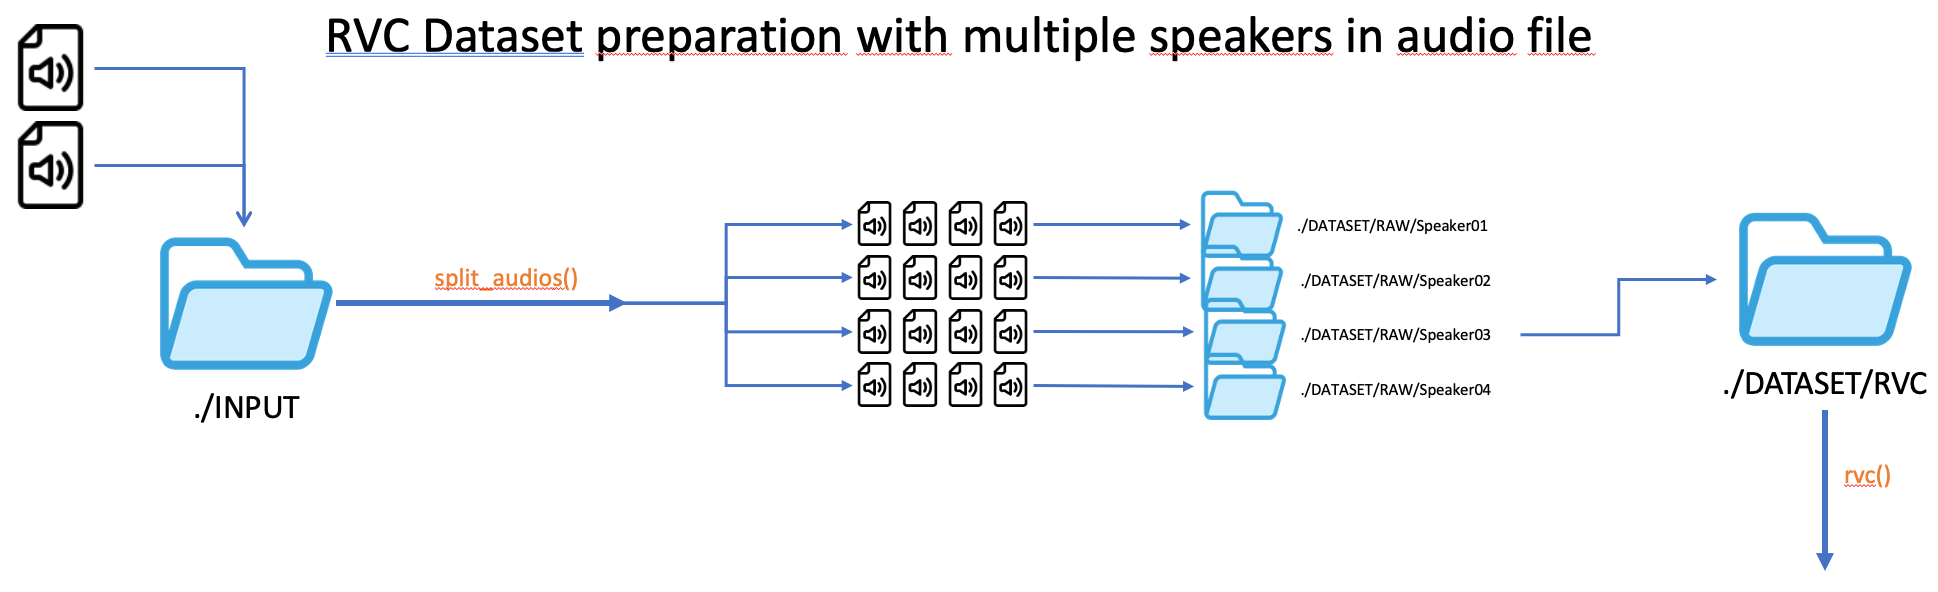
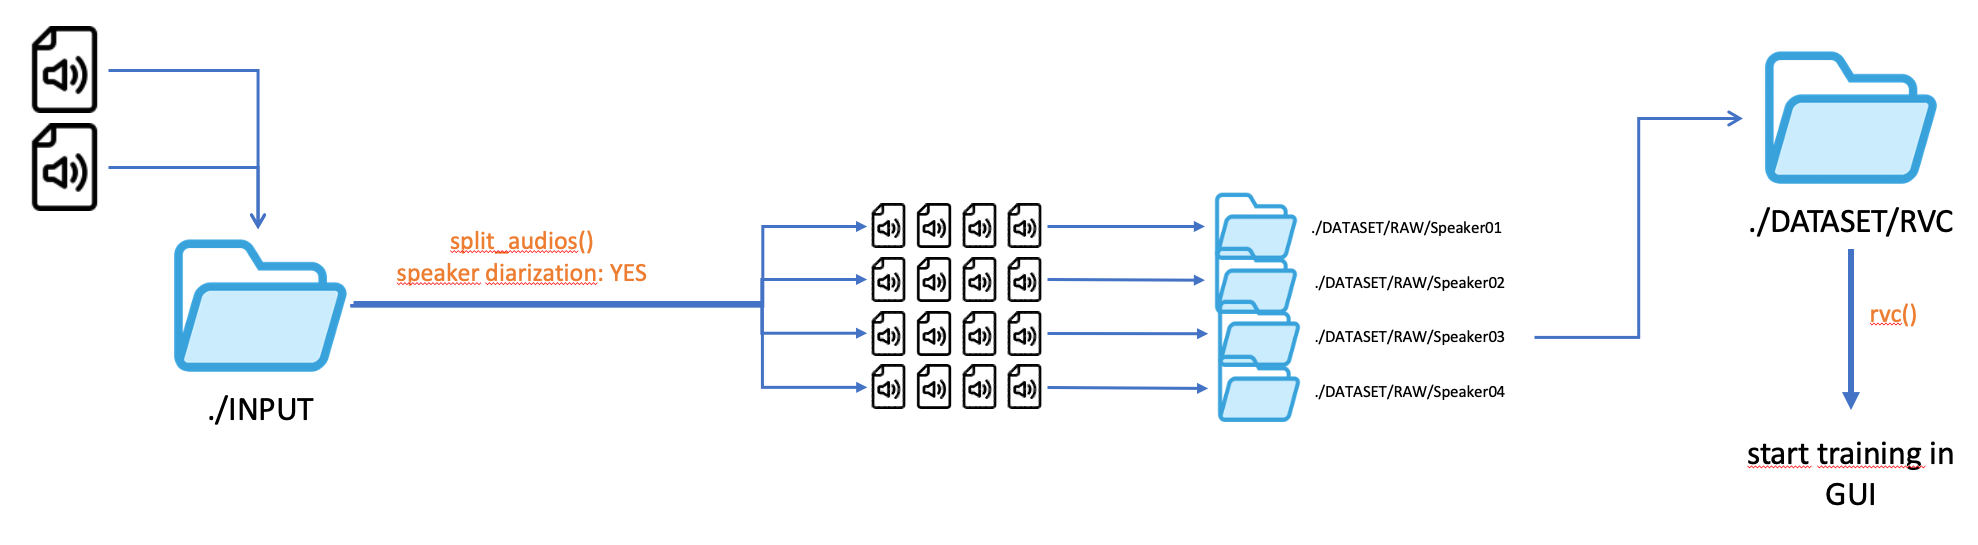
Voice workflows mostly done

Changed region(s): [[0.0, 0.0312, 0.9907, 0.967], [0.1548, 0.0312, 0.8359, 0.1248]]

diff --git a/main.tex b/main.tex
@@ -488,7 +488,7 @@ Besides \gls{tts} another recently published approach should be tested: \gls{v2v
 For accomplishing \gls{v2v} conversion the \gls{rvc} project was used \cite{RVCProjectRetrievalbasedVoiceConversionWebUI2023}. 
 \begin{figure}[h]
   \centering
-  \includegraphics[width=0.8\textwidth]{./graphics/images/RVC-UI.png}
+  \includegraphics[width=1\textwidth]{./graphics/images/RVC-UI.png}
   \caption{RVC Gradio User Interface}
   \label{fig:rvc-gradio}
 \end{figure}
@@ -736,18 +736,25 @@ But getting to the formatted Dataset turned out to be quite time consuming with 
 In the following we want to give a detailed example how we worked on our TTS Dataset. The final workflow is outlined in figure \ref{fig:dvt-tts-wf}.
 \begin{figure}[h]
   \centering
-  \includegraphics[width=1\textwidth]{./graphics/images/tts/dvt tts full workflow.png}
-  \caption{data preprocessing workflow for tts}
+  \includegraphics[width=1\textwidth]{./graphics/images/tts/tts prpro.png}
+  \caption{Data preprocessing workflow for TTS training: using \gls{prpro} and Audacity for workaround}
   \label{fig:dvt-tts-wf}
 \end{figure}
 A good voice clone starts with a smart target selection. Therefore we had to determine a suitable environment for our test cases. As we have hinted earlier and will decribe further is section \ref{study}, we chose a controled news show as the environment. TTS voices in general perform best in consistent voices where no special (emotional) intonation is required. A newscast ist perfect in this regard because of the neutral narration on the content. 
 According to this requirement we aimed for four hours of speech extracted from \gls{br} news shows "BR24". We ended up with 60 shows which acounts to a total runtime of 30 hours. From each we extraced approximately 5 minutes of the anchorman's voice.\\
 In the end our dataset contained 2002 individual clips with transcription. Getting there from 60 hours of news broadcast was quite an undertaking that could never be feasible without automation, which is where our partially automated preprocessing workflow comes in. \\
 We used several tools to aid the dataset creation process, based of various open source projects \cite{micaAudioSplitterUsing2023}, \cite{harperEndtoEndToolkitVoice2023}: \textit{Pyannote speaker diarization} helps to distinguish multiple speakers within one audio track. \textit{OpenAI Whisper} provides audio to text transcription. \textit{NVIDIA NeMo} is used for the normalisation of the transcribed texts. To give an example numbers like "42" would get normalized to the corresponding word "forty-two". This is necessary for the training process to avoid ambiguity as all input texts are being normalized before handing them over to the \gls{tts} engine. \\
-First we tried a fully automated way for the dataset creation: In this case we input one or multiple audiofiles and start the process. Based on the tools we've just mentioned, the audio gets transcribed and marked with a speaker ID.
+First we tried a fully automated way for the dataset creation which is depicted in figure \ref{fig:dvt-tts-original}.
+\begin{figure}[h]
+  \centering
+  \includegraphics[width=1\textwidth]{./graphics/images/tts/tts dvt only.png}
+  \caption{fully automated data preprocessing workflow for TTS in \gls{dvt} (not practicable)}
+  \label{fig:dvt-tts-original}
+\end{figure}
+In this case we input one or multiple audiofiles and start the process. Based on the tools we've just mentioned, the audio gets transcribed and marked with a speaker ID.
 It is then cut up into pieces of maximum length of 10 seconds, based on the transcription timecodes and placed in a dedicated directory based on the speaker ID. The folder with the most files, which is the folder of the anchorman's voice is moved to the TTS Dataset directory and again transcribed and receives the corresponding metadata.csv file with the necessary transcription for tts training (see figure \ref{fig:metadata.csv}). \\
 This process works quite well besides rarely adding false speakers to the anchorman's directory. But there is one downside of this method which, unfortunately, makes it unusable. The transcription timecodes, provided by Whisper, which are used to cut the audios into pieces are not accurate enough and often cut parts of a spoken word away. That results in the corresponding TTS voice sounding chopped up as well. This issue could be fixed by using a cutting mechanism which relies on silence in the audio as a cutting signal instead of the transcription timecodes. Although an implementation could have been derived from one of the referenced github projects, we opted against it, because we would then lose the speaker diarization funcionality, which we needed, because our news segments contained so many different speakers. \\
-Instead we opted for more time consuming manual workflow in conjunction with the previously mentioned tools: Instead of cutting the the audios in \gls{dvt}, we added a subtitle export functionality for each speaker as a csv file. We then imported the subtitle files of the anchorman into the Video editing software \textit{\gls{prpro}}. Unfortunately this is not natively supported by \gls{prpro} which is why we had to rely on an extension called \textit{Markerbox} \cite{montgomeryMARKERBOXFreeMarker}. This turned out to be the quickest alternative next to reverse engineering the \gls{prpro} XML format or purchasing software. In the end we ended up with marking in the timeline (see figure \ref{fig:premier-markers}). 
+Instead we opted for more time consuming manual workflow (figure \ref{fig:dvt-tts-wf}) in conjunction with the previously mentioned tools: Instead of cutting the the audios in \gls{dvt}, we added a subtitle export functionality (\verb|extractSpeakerMarker()|)for each speaker as a csv file. We then imported the subtitle files of the anchorman into the Video editing software \textit{\gls{prpro}}. Unfortunately this is not natively supported by \gls{prpro} which is why we had to rely on an extension called \textit{Markerbox} \cite{montgomeryMARKERBOXFreeMarker}. This turned out to be the quickest alternative next to reverse engineering the \gls{prpro} XML format or purchasing software. In the end we ended up with marking in the timeline (see figure \ref{fig:premier-markers}). 
 \begin{figure}[h]
   \centering
   \includegraphics[width=1\textwidth]{./graphics/images/tts/premier with markers.png}
@@ -756,7 +763,7 @@ Instead we opted for more time consuming manual workflow in conjunction with the
 \end{figure}
 Now we were able to manually cut aways all sections of other speakers very quickly as we had the visual aid of the markers in the timeline. Once we had isolated the main speaker we exported the audioclip. From each 30 minute news segment, we extract approximately five minutes of anchorman-only talk.\\
 Next we needed to chop up the five minute piece into audios of maximum 10 seconds length based on silence detection. Though this could have been automated as discussed earlier, we didn't want to spend more time on such implementations but just get the Dataset ready as quickly as possible. Instead we chose \textit{Audacity} to confidently detect silence and render out all clips at once. \\
-Now we had all clips cut out cleanly, so we uploaded them again into \gls{dvt} to finalize the dataset creating by performing one last transcription (with text normalization) to end up with a correct metadata.csv file (see figure \ref{fig:metadata.csv}). \\
+Now we had all clips cut out cleanly, so we uploaded them again into \gls{dvt} to finalize the dataset creating by performing one last transcription with text normalization (\verb|transcribe_audio()| to end up with a correct metadata.csv file (see figure \ref{fig:metadata.csv}). \\
 Now, given that all files have been generated and placed in the right directories, starting a TTS training is rather easy. Within \gls{dvt} we invoke \verb|tts_train| and we will be guided to start a new training run with a given name and some minor parameters,like batch size and training epochs. While the training will start, a tensorboard is also spun up in the background in order to monitor the training process. It can be accessed with a web browser, if ssh port forwarding is setup properly (see figure \ref{fig:tensorboard}).
 \begin{figure}[h]
   \centering
@@ -772,17 +779,12 @@ Now that the model is trained, inference is straight forward. For further detail
   tts --model_path "path/to/checkpoint.pth" --config_path "path/to/config.json" --out_path "path/to/outputFile.wav" --text "Text to be synthesized."
 \end{lstlisting}
 
-
-
-
-
-
-
-
-\subsubsection{Retrieval Based Voice Conversion}
+\subsubsection{Voice to Voice Conversion}
 %General
-Compared to \gls{tts}, \gls{rvc} is pretty straight forward. Regarding \gls*{dvt}, almost no adaptations to the original \gls*{rvc} \cite*{RVCProjectRetrievalbasedVoiceConversionWebUI2023} code have been made. \gls*{dvt} mostly serves as a CUDA runtime environment to provide all drivers, dependencies and required AI models to \gls{rvc}. We added is the aforementioned \verb|filebrowser| to make file transfers to a remote GPU Server easier. Of cource, we can employ our preprocessing tools to aid the dataset generation process.\\
-As depicted in figure \ref{fig:rvc-gradio}, \gls{rvc} features a Gradio user interface with several tabs in the top. Most importantly training and Model inference. For training, most hyperparameters are already set, only the Dataset location needs to be set. Inference is also done in the GUI. 
+To convert our speech recordings to the voice of the anchorman we have used \gls{rvc}. Compared to \gls{tts}, \gls{rvc} is pretty straight forward. Regarding \gls*{dvt}, almost no adaptations to the original \gls*{rvc} \cite*{RVCProjectRetrievalbasedVoiceConversionWebUI2023} code have been made. \gls*{dvt} mostly serves as a CUDA runtime environment to provide all drivers, dependencies and AI models required to run \gls{rvc}. We added is the aforementioned \verb|filebrowser| to make file transfers to a remote GPU Server easier. Of cource, we can employ our preprocessing tools to aid the dataset generation process.\\
+As depicted in figure \ref{fig:rvc-gradio}, \gls{rvc} features a Gradio user interface with several tabs in the top. Most importantly training and Model inference. For training, most hyperparameters are already set, only the Dataset location needs to be set. Inference is also done in the GUI. \\
+\gls{rvc} was initially based a project for singing voice conversion, a feature which is implemented in \gls{rvc} as well. During inference voices, as well as singing voices can be converted to previously trained models. Before converting a singing voice we would need a clean vocal track. For that reason, the developers added the \gls{uvr} to a seperate tab of the GUI. With the utility the main vocals can be seperated from background music in order to convert the voice only.
+
 %Data requirements
 \textbf{Data Requirements} \\
 For a good \gls{rvc} model only 10 minutes of speech are required. It is also less important than for \gls{tts} that sentences are comlete. If a word is cut of we haven't experienced any issues. Because of that we can fully use the speaker diarization and cutting process we initially built for \gls{tts}. 
@@ -793,16 +795,20 @@ As can be seen in figure \ref{fig:rvc-wf}, the preprocessing workflow is much le
 \begin{figure}[h]
   \centering
   \includegraphics[width=1\textwidth]{./graphics/images/rvc/rvc-workflow.png}
-  \caption{data preprocessing workflow for tts}
+  \caption{Data preprocessing workflow for RVC training}
   \label{fig:rvc-wf}
 \end{figure}
 As we know that we can extract approximately 5 minutes from every 30 minutes news show we need two of them for the 10 minutes training material. They get placed into the INPUT directory. Invoking DVT's \verb|split_audios| method triggers the speaker diarization and segment splitting workflow, based on a transcription and corresponding timecodes. \\
 We end up with a subdirectory for each speaker of each input audio. We could now use \verb|filebrowser| to look through the speakers and listen in to the audios and then move the right audios into the \verb|/DATASET/RVC| directory. Or we can use \verb|move_most| which will go through all speaker folders and move those with most data into \verb|/DATASET/RAW/SELECTION_HERE|. Now we can move all data from here into \verb|/DATASET/RVC|. \\
-Once 10 minutes of snippets all under 10 seconds are in the RVC directory we can move on to training with \verb|rvc|. This will start up the Gradio ui which we need to access via our browser. From there we can start the training. The GUI, together with the online documentation is quite easy to understand and thus won't be explained further. This also counts for inferencing/converting voices with \gls{rvc}.
-
+Once 10 minutes of snippets all under 10 seconds are in the RVC directory we can start the \gls{rvc} UI within \gls{dvt} using \verb|rvc|. From there we can start the training by entering the dataset directory and clicking two buttons. The GUI, together with the online documentation is quite easy to understand and thus won't be explained further. This also counts for inferencing/converting voices with \gls{rvc}.
 
 \subsection{Lip remapping}
 Wav2Lip
+
+
+
+% Beispiele warum die Qualität schlecht ist
+% VQGAN Als Lösung
 
 
 \subsection{stable Diffusion + Video}

diff --git a/acronyms.tex b/acronyms.tex
@@ -26,3 +26,4 @@
 \newacronym{hff}{HFF}{University for Television and Film Munich}
 \newacronym{c2pa}{C2PA}{Coalition for Content Provenance and Authentixity}
 \newacronym{rtvc}{RTVC}{Real Time Voice Cloning}
+\newacronym{uvr}{UVR}{ultimate vocal remover}
